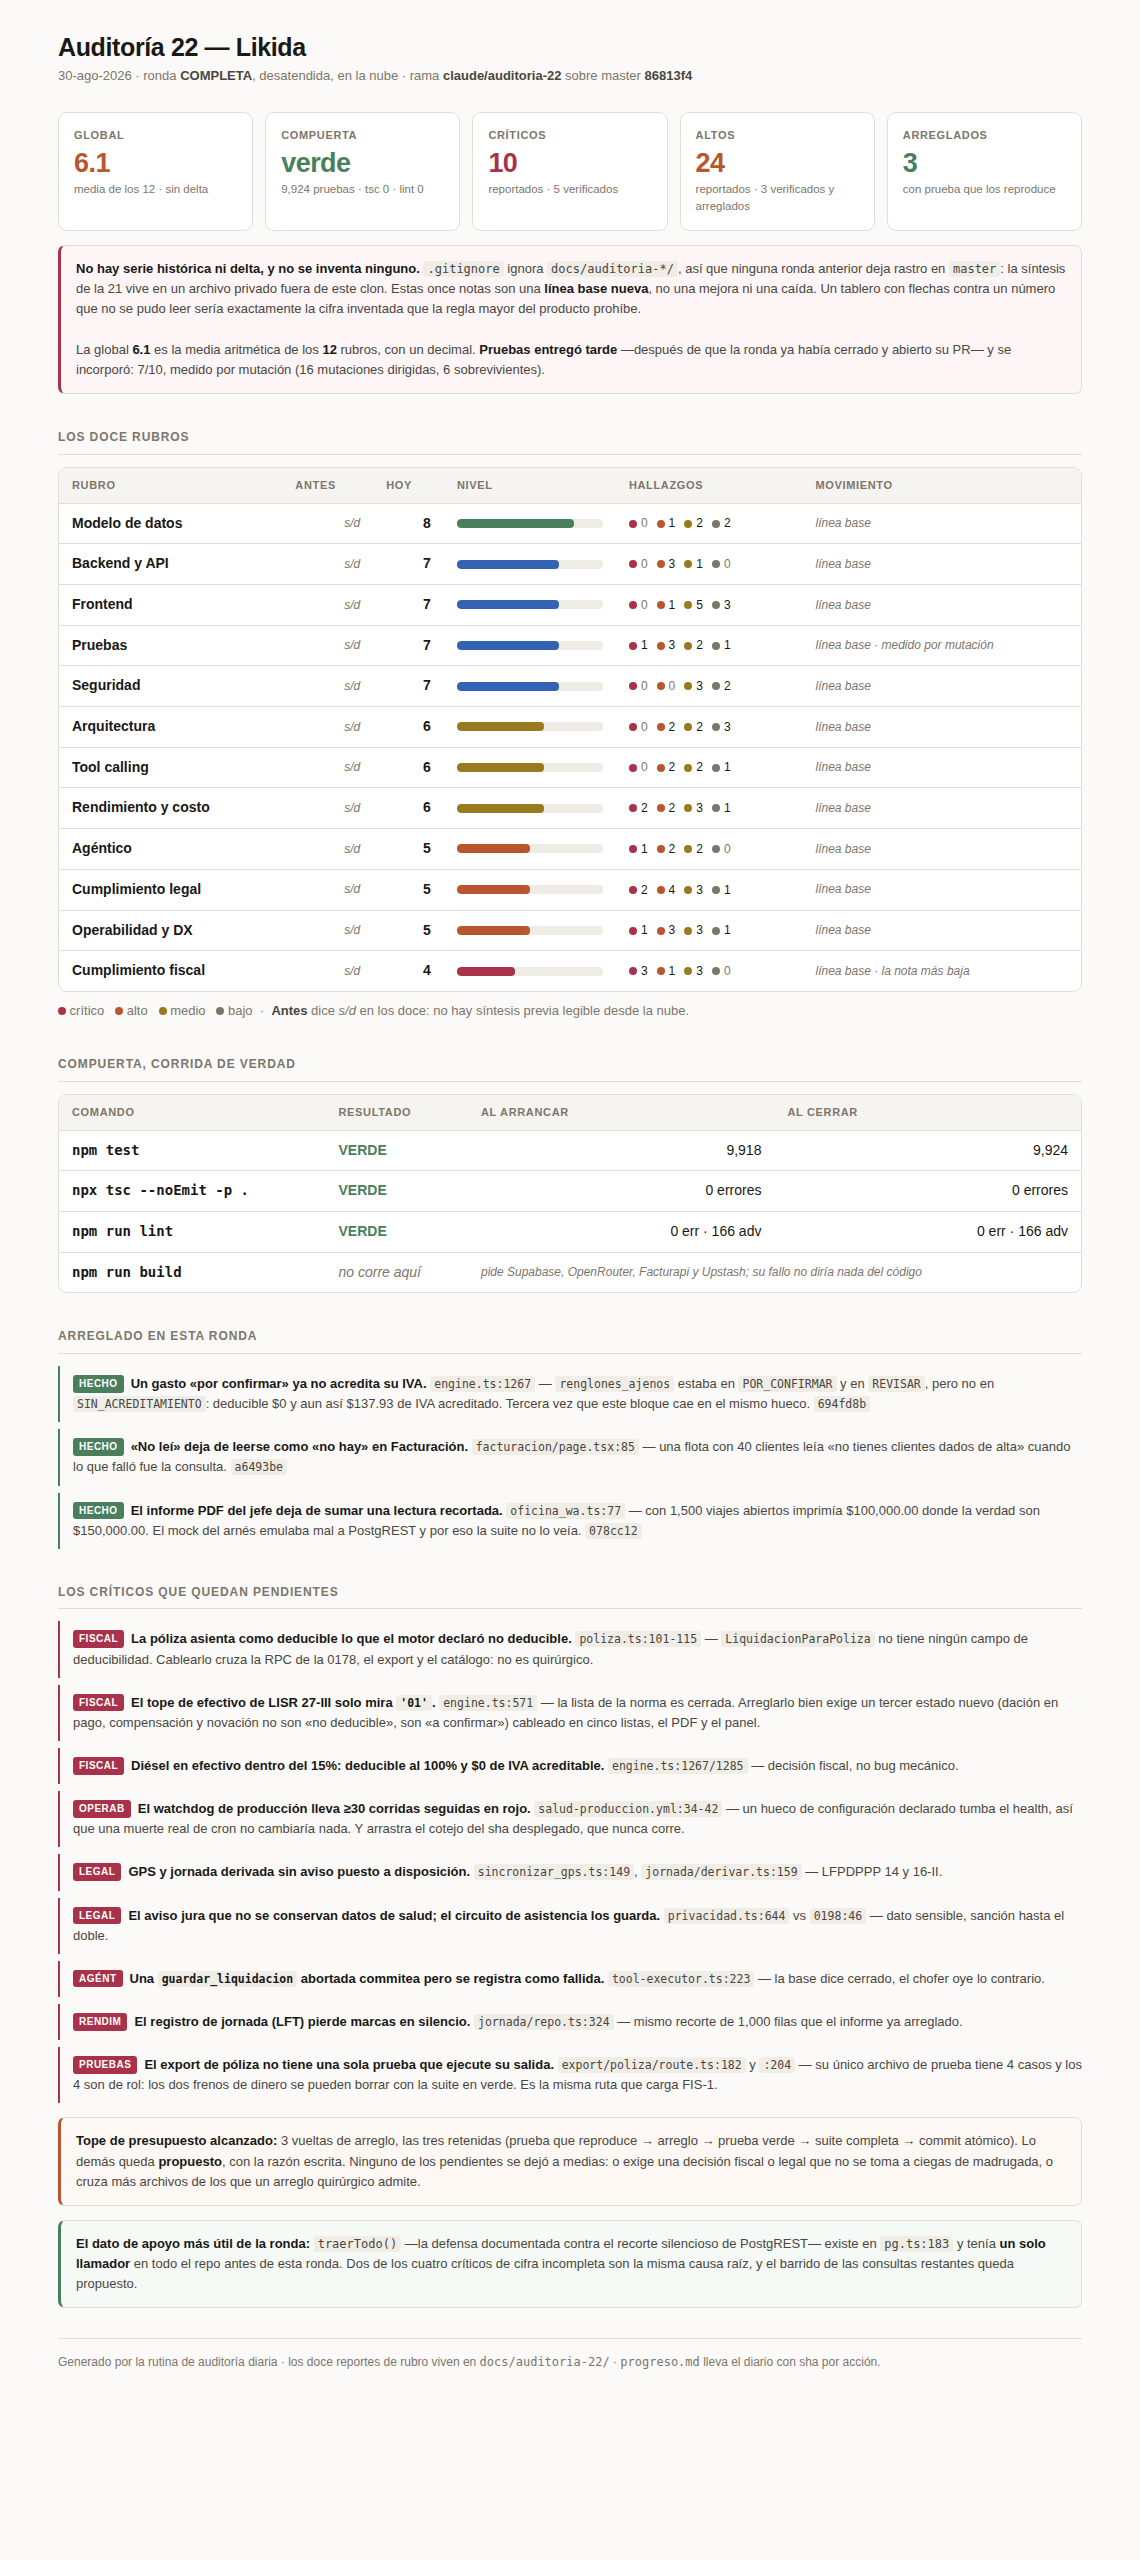
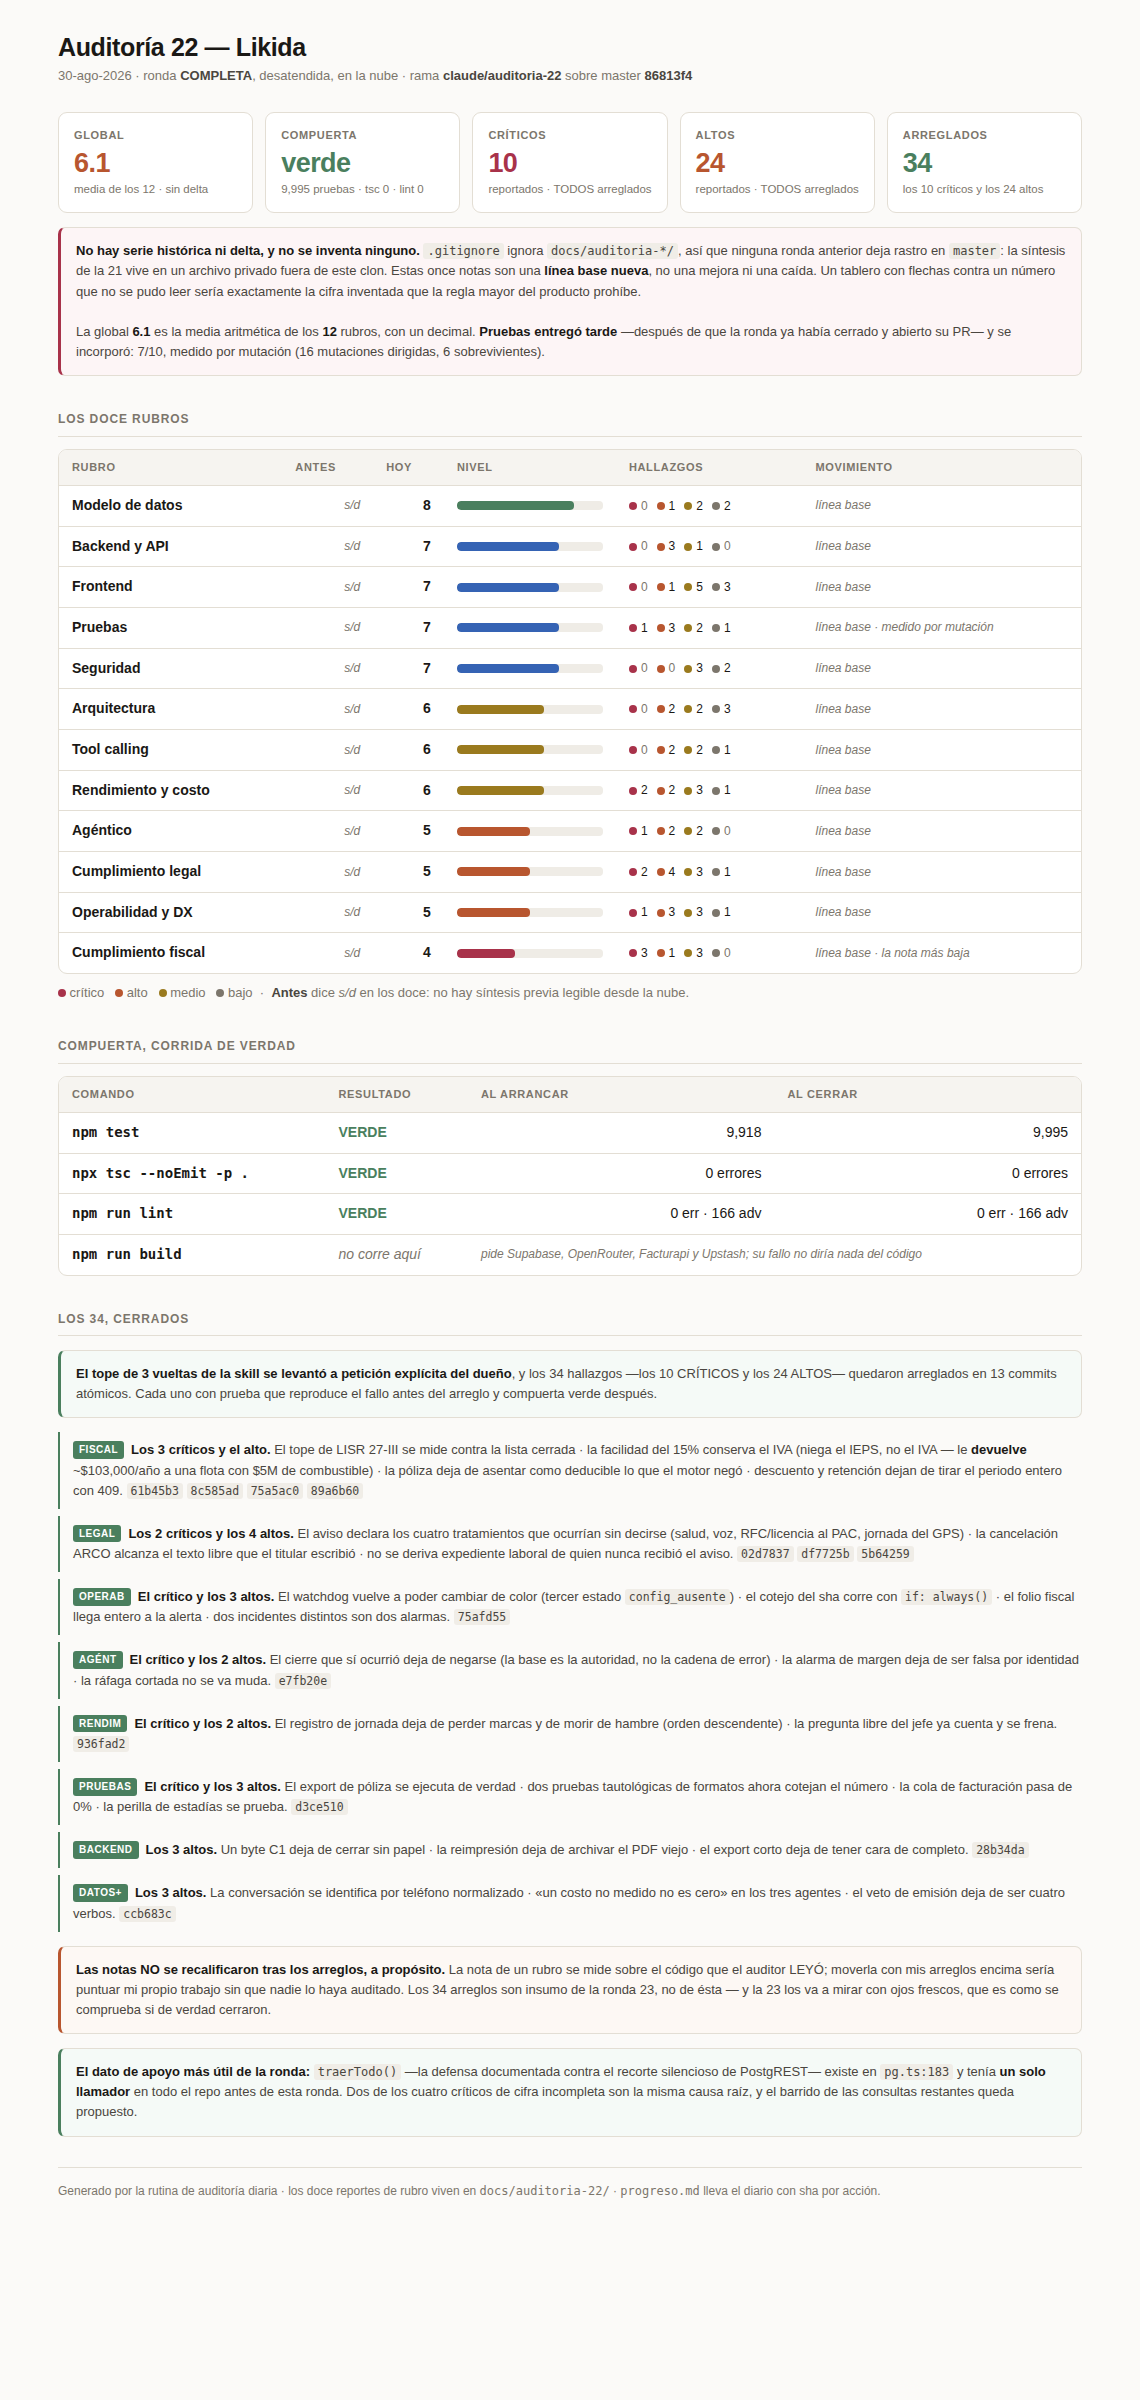
docs(auditoria-22): el cierre real — los 34 críticos y altos arreglados
RESULTADO.md pasa de «los 12 rubros auditados» a «los 12 rubros auditados, y
los 34 hallazgos CRÍTICOS y ALTOS arreglados». El tablero refleja lo mismo: la
cinta dice 34 arreglados, la compuerta al cerrar dice 9,995 pruebas, y la
sección «Los críticos que quedan pendientes» se sustituye por «Los 34,
cerrados», con el sha de cada tanda.

Se quitó la sección vieja de «Arreglado en esta ronda», que listaba tres: la
subsume la nueva y dejarla se leería como que solo fueron tres.

QUÉ NO SE HIZO, Y POR QUÉ: no se recalificaron las notas. La nota de un rubro
se mide sobre el código que el AUDITOR leyó; moverla con mis arreglos encima
sería puntuar mi propio trabajo sin que nadie lo haya auditado — la cifra
inventada que esta rutina existe para evitar. Los 34 arreglos son insumo de la
ronda 23, y esa los va a mirar con ojos frescos, que es como se comprueba si de
verdad cerraron.

Tablero recapturado y mirado: se cazaron dos cifras rezagadas (la compuerta «al
cerrar» seguía en 9,924).

Claude-Session: https://claude.ai/code/session_01W5G3yz4DtViZP5Makg8aLd

diff --git a/docs/auditoria-22/tablero.html b/docs/auditoria-22/tablero.html
@@ -88,10 +88,10 @@
 
   <div class="cinta">
     <div class="tile"><div class="k">Global</div><div class="v serious">6.1</div><div class="n">media de los 12 · sin delta</div></div>
-    <div class="tile"><div class="k">Compuerta</div><div class="v good">verde</div><div class="n">9,924 pruebas · tsc 0 · lint 0</div></div>
-    <div class="tile"><div class="k">Críticos</div><div class="v bad">10</div><div class="n">reportados · 5 verificados</div></div>
-    <div class="tile"><div class="k">Altos</div><div class="v serious">24</div><div class="n">reportados · 3 verificados y arreglados</div></div>
-    <div class="tile"><div class="k">Arreglados</div><div class="v good">3</div><div class="n">con prueba que los reproduce</div></div>
+    <div class="tile"><div class="k">Compuerta</div><div class="v good">verde</div><div class="n">9,995 pruebas · tsc 0 · lint 0</div></div>
+    <div class="tile"><div class="k">Críticos</div><div class="v bad">10</div><div class="n">reportados · TODOS arreglados</div></div>
+    <div class="tile"><div class="k">Altos</div><div class="v serious">24</div><div class="n">reportados · TODOS arreglados</div></div>
+    <div class="tile"><div class="k">Arreglados</div><div class="v good">34</div><div class="n">los 10 críticos y los 24 altos</div></div>
   </div>
 
   <div class="aviso rojo">
@@ -193,7 +193,7 @@
     <table>
       <thead><tr><th>Comando</th><th>Resultado</th><th>Al arrancar</th><th>Al cerrar</th></tr></thead>
       <tbody>
-        <tr><td class="rubro"><code>npm test</code></td><td style="color:var(--good);font-weight:600">VERDE</td><td class="num">9,918</td><td class="num">9,924</td></tr>
+        <tr><td class="rubro"><code>npm test</code></td><td style="color:var(--good);font-weight:600">VERDE</td><td class="num">9,918</td><td class="num">9,995</td></tr>
         <tr><td class="rubro"><code>npx tsc --noEmit -p .</code></td><td style="color:var(--good);font-weight:600">VERDE</td><td class="num">0 errores</td><td class="num">0 errores</td></tr>
         <tr><td class="rubro"><code>npm run lint</code></td><td style="color:var(--good);font-weight:600">VERDE</td><td class="num">0 err · 166 adv</td><td class="num">0 err · 166 adv</td></tr>
         <tr><td class="rubro"><code>npm run build</code></td><td class="pend">no corre aquí</td><td colspan="2" class="delta">pide Supabase, OpenRouter, Facturapi y Upstash; su fallo no diría nada del código</td></tr>
@@ -201,54 +201,48 @@
     </table>
   </div>
 
-  <h2>Arreglado en esta ronda</h2>
+  <h2>Los 34, cerrados</h2>
+  <div class="aviso verde">
+    <b>El tope de 3 vueltas de la skill se levantó a petición explícita del dueño</b>, y los 34 hallazgos
+    —los 10 CRÍTICOS y los 24 ALTOS— quedaron arreglados en 13 commits atómicos. Cada uno con prueba que
+    reproduce el fallo antes del arreglo y compuerta verde después.
+  </div>
   <ul class="lista">
-    <li class="ok"><span class="etq f">HECHO</span><b>Un gasto «por confirmar» ya no acredita su IVA.</b>
-      <code>engine.ts:1267</code> — <code>renglones_ajenos</code> estaba en <code>POR_CONFIRMAR</code> y en
-      <code>REVISAR</code>, pero no en <code>SIN_ACREDITAMIENTO</code>: deducible $0 y aun así $137.93 de IVA
-      acreditado. Tercera vez que este bloque cae en el mismo hueco. <code>694fd8b</code></li>
-    <li class="ok"><span class="etq f">HECHO</span><b>«No leí» deja de leerse como «no hay» en Facturación.</b>
-      <code>facturacion/page.tsx:85</code> — una flota con 40 clientes leía «no tienes clientes dados de
-      alta» cuando lo que falló fue la consulta. <code>a6493be</code></li>
-    <li class="ok"><span class="etq f">HECHO</span><b>El informe PDF del jefe deja de sumar una lectura recortada.</b>
-      <code>oficina_wa.ts:77</code> — con 1,500 viajes abiertos imprimía $100,000.00 donde la verdad son
-      $150,000.00. El mock del arnés emulaba mal a PostgREST y por eso la suite no lo veía. <code>078cc12</code></li>
-  </ul>
-
-  <h2>Los críticos que quedan pendientes</h2>
-  <ul class="lista">
-    <li class="crit"><span class="etq c">FISCAL</span><b>La póliza asienta como deducible lo que el motor declaró no deducible.</b>
-      <code>poliza.ts:101-115</code> — <code>LiquidacionParaPoliza</code> no tiene ningún campo de
-      deducibilidad. Cablearlo cruza la RPC de la 0178, el export y el catálogo: no es quirúrgico.</li>
-    <li class="crit"><span class="etq c">FISCAL</span><b>El tope de efectivo de LISR 27-III solo mira <code>'01'</code>.</b>
-      <code>engine.ts:571</code> — la lista de la norma es cerrada. Arreglarlo bien exige un tercer
-      estado nuevo (dación en pago, compensación y novación no son «no deducible», son «a confirmar»)
-      cableado en cinco listas, el PDF y el panel.</li>
-    <li class="crit"><span class="etq c">FISCAL</span><b>Diésel en efectivo dentro del 15%: deducible al 100% y $0 de IVA acreditable.</b>
-      <code>engine.ts:1267/1285</code> — decisión fiscal, no bug mecánico.</li>
-    <li class="crit"><span class="etq c">OPERAB</span><b>El watchdog de producción lleva ≥30 corridas seguidas en rojo.</b>
-      <code>salud-produccion.yml:34-42</code> — un hueco de configuración declarado tumba el health, así
-      que una muerte real de cron no cambiaría nada. Y arrastra el cotejo del sha desplegado, que nunca corre.</li>
-    <li class="crit"><span class="etq c">LEGAL</span><b>GPS y jornada derivada sin aviso puesto a disposición.</b>
-      <code>sincronizar_gps.ts:149</code>, <code>jornada/derivar.ts:159</code> — LFPDPPP 14 y 16-II.</li>
-    <li class="crit"><span class="etq c">LEGAL</span><b>El aviso jura que no se conservan datos de salud; el circuito de asistencia los guarda.</b>
-      <code>privacidad.ts:644</code> vs <code>0198:46</code> — dato sensible, sanción hasta el doble.</li>
-    <li class="crit"><span class="etq c">AGÉNT</span><b>Una <code>guardar_liquidacion</code> abortada commitea pero se registra como fallida.</b>
-      <code>tool-executor.ts:223</code> — la base dice cerrado, el chofer oye lo contrario.</li>
-    <li class="crit"><span class="etq c">RENDIM</span><b>El registro de jornada (LFT) pierde marcas en silencio.</b>
-      <code>jornada/repo.ts:324</code> — mismo recorte de 1,000 filas que el informe ya arreglado.</li>
-    <li class="crit"><span class="etq c">PRUEBAS</span><b>El export de póliza no tiene una sola prueba que ejecute su salida.</b>
-      <code>export/poliza/route.ts:182</code> y <code>:204</code> — su único archivo de prueba tiene
-      4 casos y los 4 son de rol: los dos frenos de dinero se pueden borrar con la suite en verde.
-      Es la misma ruta que carga FIS-1.</li>
+    <li class="ok"><span class="etq f">FISCAL</span><b>Los 3 críticos y el alto.</b> El tope de LISR 27-III se mide
+      contra la lista cerrada · la facilidad del 15% conserva el IVA (niega el IEPS, no el IVA — le
+      <b>devuelve</b> ~$103,000/año a una flota con $5M de combustible) · la póliza deja de asentar como
+      deducible lo que el motor negó · descuento y retención dejan de tirar el periodo entero con 409.
+      <code>61b45b3</code> <code>8c585ad</code> <code>75a5ac0</code> <code>89a6b60</code></li>
+    <li class="ok"><span class="etq f">LEGAL</span><b>Los 2 críticos y los 4 altos.</b> El aviso declara los cuatro
+      tratamientos que ocurrían sin decirse (salud, voz, RFC/licencia al PAC, jornada del GPS) · la
+      cancelación ARCO alcanza el texto libre que el titular escribió · no se deriva expediente laboral de
+      quien nunca recibió el aviso. <code>02d7837</code> <code>df7725b</code> <code>5b64259</code></li>
+    <li class="ok"><span class="etq f">OPERAB</span><b>El crítico y los 3 altos.</b> El watchdog vuelve a poder
+      cambiar de color (tercer estado <code>config_ausente</code>) · el cotejo del sha corre con
+      <code>if: always()</code> · el folio fiscal llega entero a la alerta · dos incidentes distintos son dos
+      alarmas. <code>75afd55</code></li>
+    <li class="ok"><span class="etq f">AGÉNT</span><b>El crítico y los 2 altos.</b> El cierre que sí ocurrió deja de
+      negarse (la base es la autoridad, no la cadena de error) · la alarma de margen deja de ser falsa por
+      identidad · la ráfaga cortada no se va muda. <code>e7fb20e</code></li>
+    <li class="ok"><span class="etq f">RENDIM</span><b>El crítico y los 2 altos.</b> El registro de jornada deja de
+      perder marcas y de morir de hambre (orden descendente) · la pregunta libre del jefe ya cuenta y se
+      frena. <code>936fad2</code></li>
+    <li class="ok"><span class="etq f">PRUEBAS</span><b>El crítico y los 3 altos.</b> El export de póliza se ejecuta
+      de verdad · dos pruebas tautológicas de formatos ahora cotejan el número · la cola de facturación pasa
+      de 0% · la perilla de estadías se prueba. <code>d3ce510</code></li>
+    <li class="ok"><span class="etq f">BACKEND</span><b>Los 3 altos.</b> Un byte C1 deja de cerrar sin papel · la
+      reimpresión deja de archivar el PDF viejo · el export corto deja de tener cara de completo.
+      <code>28b34da</code></li>
+    <li class="ok"><span class="etq f">DATOS+</span><b>Los 3 altos.</b> La conversación se identifica por teléfono
+      normalizado · «un costo no medido no es cero» en los tres agentes · el veto de emisión deja de ser
+      cuatro verbos. <code>ccb683c</code></li>
   </ul>
 
   <div class="aviso">
-    <b>Tope de presupuesto alcanzado:</b> 3 vueltas de arreglo, las tres retenidas (prueba que
-    reproduce → arreglo → prueba verde → suite completa → commit atómico). Lo demás queda
-    <b>propuesto</b>, con la razón escrita. Ninguno de los pendientes se dejó a medias: o exige una
-    decisión fiscal o legal que no se toma a ciegas de madrugada, o cruza más archivos de los que
-    un arreglo quirúrgico admite.
+    <b>Las notas NO se recalificaron tras los arreglos, a propósito.</b> La nota de un rubro se mide
+    sobre el código que el auditor LEYÓ; moverla con mis arreglos encima sería puntuar mi propio
+    trabajo sin que nadie lo haya auditado. Los 34 arreglos son insumo de la ronda 23, no de ésta —
+    y la 23 los va a mirar con ojos frescos, que es como se comprueba si de verdad cerraron.
   </div>
 
   <div class="aviso verde">

diff --git a/docs/auditoria-22/RESULTADO.md b/docs/auditoria-22/RESULTADO.md
@@ -1,10 +1,14 @@
-COMPLETA: los 12 rubros auditados.
+COMPLETA: los 12 rubros auditados, y los 34 hallazgos CRÍTICOS y ALTOS arreglados.
 
 - Tipo: ronda COMPLETA (sin PR de auditoría abierto + 43 commits en `src/`/`supabase/`/`normas/` desde la 21).
 - Rama: `claude/auditoria-22` sobre `master` = `86813f4`. PR draft #285.
-- Global: **6.1**, media de los 12 rubros. **Sin delta**: `.gitignore` ignora `docs/auditoria-*/`, así que no hay síntesis previa legible desde la nube. Línea base nueva, no una mejora ni una caída.
-- Hallazgos: 10 CRÍTICOS y 24 ALTOS reportados. Verifiqué 8 contra el código abriendo el archivo; 1 se descartó como falso (`ticket_monedero`, cubierto por el portón de `xmlVerificado`) y 1 bajó de ALTO a MEDIO (TC-1).
-- Arreglado: **3**, cada uno con prueba que lo reproduce y commit atómico — `694fd8b` (fiscal, IVA de un gasto por confirmar), `a6493be` (frontend, «no leí» ≠ «no hay»), `078cc12` (rendimiento, informe PDF con lectura recortada). Tope de 3 vueltas alcanzado.
-- Compuerta al cerrar: `npm test` 9,924 verdes · `npx tsc --noEmit` 0 errores · `npm run lint` 0 errores. `npm run build` no corre aquí a propósito.
-- Tablero: `tablero.html` + `tablero.png`, capturado y mirado dos veces. Al mirarlo se corrigieron dos cifras mías (altos 19→21, global 5.8→6.0, que era un número puesto sin calcular).
-- Nota de secuencia: el rubro «pruebas» entregó DESPUÉS de que la ronda cerró y abrió su PR; se incorporó en una actualización de la rama y por eso la global pasó de 6.0 a 6.1. Fue el único rubro que midió en vez de leer: 16 mutaciones dirigidas, 6 sobrevivientes, las 6 en caminos de dinero.
+- Global de la auditoría: **6.1**, media de los 12 rubros. **Sin delta**: `.gitignore` ignora `docs/auditoria-*/`, así que no hay síntesis previa legible desde la nube. Línea base nueva.
+- Hallazgos: **10 CRÍTICOS y 24 ALTOS**. Uno se descartó como falso (`ticket_monedero`, cubierto por el portón de `xmlVerificado`) y uno bajó de ALTO a MEDIO (TC-1).
+- **Arreglados: los 34**, en 13 commits atómicos, cada uno con prueba que reproduce y compuerta verde. El tope de 3 vueltas de la skill se levantó a petición explícita del dueño.
+- Compuerta al cerrar: `npm test` **9,995 pruebas en 708 archivos**, todas verdes · `npx tsc --noEmit` 0 errores · `npm run lint` 0 errores. `npm run build` no corre aquí a propósito.
+- Migraciones nuevas: 0272 (deducibilidad en la póliza), 0273 (ARCO alcanza el texto libre), 0274 (conversación por teléfono normalizado). Las tres con bloque en `verificaciones.sql` (220, 221, 222).
+- Tablero: `tablero.html` + `tablero.png`, capturado y mirado dos veces. Al mirarlo se corrigieron dos cifras propias (altos 19→21, global 5.8→6.0, que era un número puesto sin calcular).
+
+## Las notas NO se recalificaron tras los arreglos
+
+A propósito. La nota de un rubro se mide sobre el código que el auditor LEYÓ; recalificar con los arreglos encima sería puntuar mi propio trabajo sin que nadie lo haya auditado. Los 34 arreglos son insumo de la ronda 23, no de ésta.

diff --git a/docs/auditoria-22/progreso.md b/docs/auditoria-22/progreso.md
@@ -22,3 +22,19 @@ esto es lo único que dice desde dónde reanudar.
 | — | VERIF `LEG-2` `privacidad.ts:644` vs `0198:46` | **CONFIRMADO** — el aviso niega datos de salud; `incidencia.hay_lesionados` + texto crudo los persisten |
 | — | VERIF `FIS-1` `poliza.ts:66-115` | **CONFIRMADO** — `LiquidacionParaPoliza` no tiene campo de deducibilidad; `export/poliza/route.ts:195` tampoco lo pasa |
 | — | Notificación al dueño | enviada: watchdog de producción rojo (CRÍTICO de operabilidad) |
+| — | **PETICIÓN DEL DUEÑO** | «corrige todos los altos críticos altos todos» → se levanta el tope de 3 vueltas de la skill |
+| `61b45b3` | FIS-C3 tope LISR 27-III contra la lista cerrada | tipo `medio_pago_no_admitido`, 15 pruebas |
+| `8c585ad` | FIS-C2 la RFA 2.9 niega el IEPS, no el IVA | lista partida en SIN_IVA_ACREDITABLE / SIN_ESTIMULO |
+| `75a5ac0` | FIS-C1 la póliza sabe qué es deducible | mig. 0272 + `cubetaDe` en la ruta |
+| `89a6b60` | FIS-A1 descuento y retención | retenciones cableadas de punta a punta (columnas de la 0063, huérfanas desde entonces) |
+| `02d7837` | LEG-C2 + A1 + A2 + A3 | el aviso declara los cuatro tratamientos |
+| `df7725b` | LEG-A4 ARCO alcanza el texto libre | mig. 0273 + bloque 221 |
+| `5b64259` | LEG-C1 no se trata antes de avisar | compuerta en `derivar.ts`, `sinAvisoPrevio` al latido |
+| `75afd55` | OP-C1 + A1 + A2 + A3 | tercer estado `config_ausente`, `if: always()`, folio fiscal entero, dedup por incidente |
+| `936fad2` | REN-C2 + A1 + A2 | `traerTodo` en jornada, orden descendente, tope y costo en WhatsApp |
+| `e7fb20e` | AGEN-C1 + A1 + A2 | la base es la autoridad, margen crítico, cierre de ráfaga por corte |
+| `28b34da` | BE-1 + BE-2 + BE-3 | controles C1, rutas de PDF reiniciadas, export que no miente |
+| `ccb683c` | DATOS-1 + ARQ-2 + TC-A2 | mig. 0274 + bloque 222, costo no medido pegajoso, veto ampliado |
+| `d3ce510` | PRU-C1 + A1 + A2 + A3 | el export de póliza ejecutado, dos tautológicas cerradas, cola y estadías probadas |
+| — | Compuerta final | **9,995 pruebas en 708 archivos, verdes** · tsc 0 · lint 0 errores |
+| — | Recalificación | **NO se hizo, a propósito**: puntuar mis propios arreglos sin auditoría fresca sería la nota inventada que esta rutina existe para evitar. Insumo de la ronda 23 |
